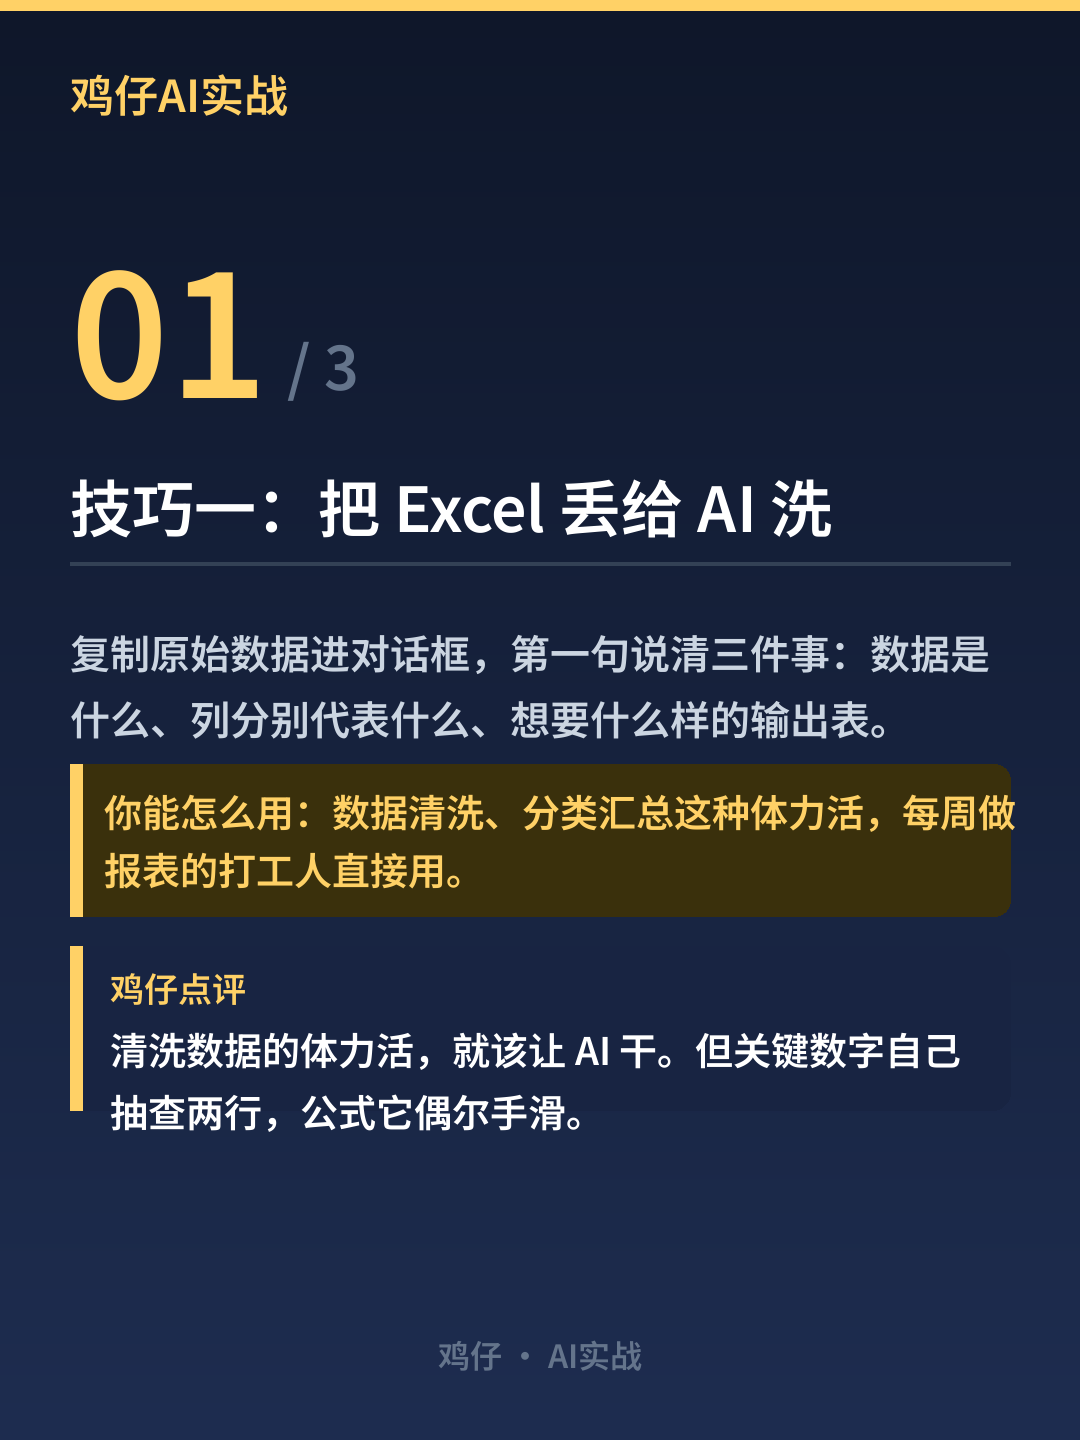
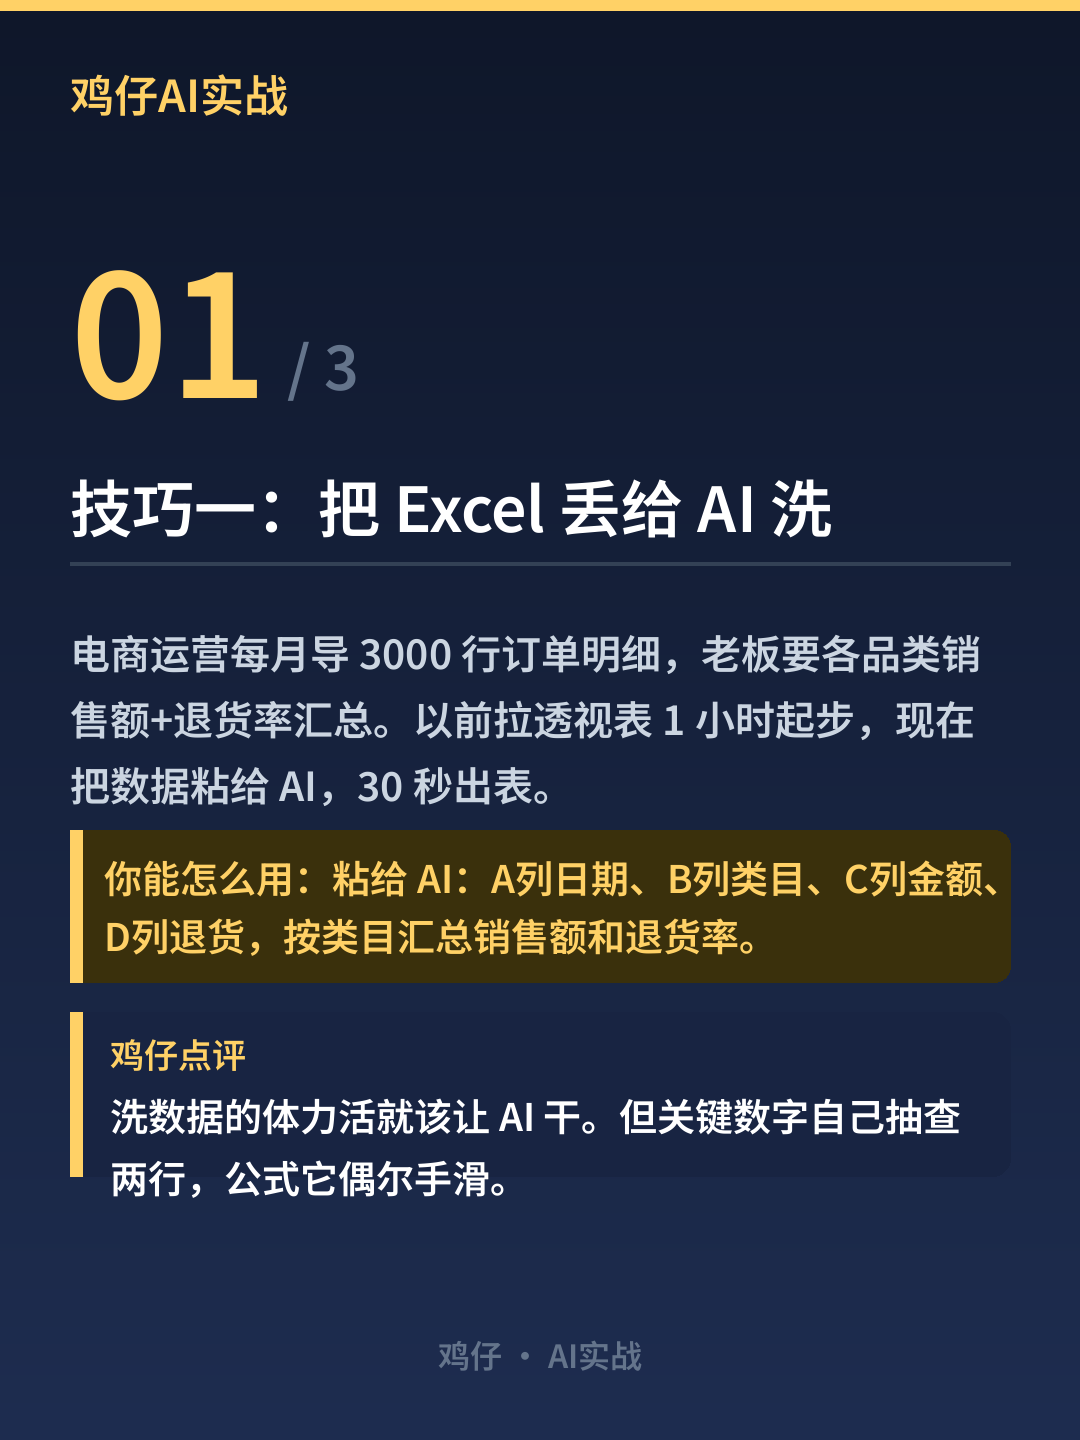
教程初稿加具体案例：场景+真实数字+可复制提示词

Changed region(s): [[0.0611, 0.4375, 0.9472, 0.8438]]

diff --git a/preview.html b/preview.html
@@ -57,27 +57,36 @@
       <div>
         <div class="copy-box"><h3>标题</h3><div class="title">3个AI技巧：报表1小时变10分钟</div></div>
         <div class="copy-box"><h3>正文</h3><pre>每天被报表追着跑的打工人，这篇能救命。
-3 个我自己在用的 AI 办公技巧，不用学新软件，复制粘贴就会。
+3 个我自己在用的 AI 办公技巧，每个都带具体例子，复制粘贴就能用。
 
 📋 今天这 3 招
 
-① 技巧一：把 Excel 丢给 AI 洗
-💡 做法：复制原始数据进对话框，第一句说清三件事——数据是什么、列分别代表什么、想要什么样的输出表。
-⚠ 避坑：关键数字自己抽查两行，公式它偶尔会手滑。
-💬 鸡仔说：清洗数据的体力活，就该让 AI 干。
+① 把 Excel 丢给 AI 洗
+场景：电商运营，每月初从后台导 3000 行订单明细，老板要一张各品类销售额+退货率汇总表。以前拉透视表，1 小时起步。
+做法：把数据复制进对话框，粘这句——
+这是9月订单明细，A列下单日期、B列商品类目、C列金额、D列是否退货，帮我按类目汇总销售额和退货率，输出一张表。
+30 秒出表。
+⚠ 避坑：关键数字自己抽查两行，公式它偶尔手滑。
+💬 鸡仔说：洗数据的体力活，就该让 AI 干。
 
-② 技巧二：周报 5 分钟交差
-💡 做法：把这周干的事列成 5 条大白话（越碎越好），让 AI 扩写成正式周报，语气低调务实。
-⚠ 避坑：数字、结论自己填，别让它编业绩。
+② 周报 5 分钟交差
+场景：周五下午 5 点，周报还没动笔。
+做法：先列 5 条大白话，越碎越好——
+周一跟进 3 个客户，A 公司签了 2 万的单；周三写完 Q4 推广方案初稿；周四参加产品培训；周五处理 2 个客诉。
+然后跟 AI 说：扩写成正式周报，语气低调务实。
+⚠ 避坑：数字、结论自己填，别让它编业绩，写上去的每个数都得是你自己的。
 💬 鸡仔说：措辞交给 AI，功劳留给自己。
 
-③ 技巧三：汇报 PPT 10 分钟出大纲
-💡 做法：告诉 AI 三件事——听众是谁、讲多长时间、想让对方记住哪一句话。
-⚠ 避坑：大纲是骨架，案例和数据必须填自己的，不然一问就穿帮。
+③ 汇报 PPT，10 分钟出大纲
+场景：下周给总监汇报 Q4 推广方案，只有 15 分钟。
+做法：告诉 AI 三件事——听众是谁、讲多久、想让对方记住哪句话：
+听众是总监，关心投入产出；讲 15 分钟；想让他记住：Q4 主攻短视频，预算 20 万，目标 200 万 GMV。
+AI 给你一版逻辑大纲，你再往里填自己的案例和数据。
+⚠ 避坑：大纲是骨架，血肉必须是你的真实业务，套模板的一问就穿帮。
 💬 鸡仔说：AI 搭架子，你填里子，这个分工最稳。
 
 📌 收藏这篇，下周做报表时翻出来对照着用
-这 3 招里，你最想先试哪一个？评论区扣 1，我把提示词原文发你。
+这 3 招里，你最想先试哪一个？评论区扣 1，我把上面 3 段提示词原文发你。
 
 🤖 本内容由 AI 辅助生成，仅供参考</pre></div>
         <div class="copy-box"><h3>标签</h3><div class="tags">#AI办公 #打工人 #职场效率 #AI工具 #AI写作</div></div>
